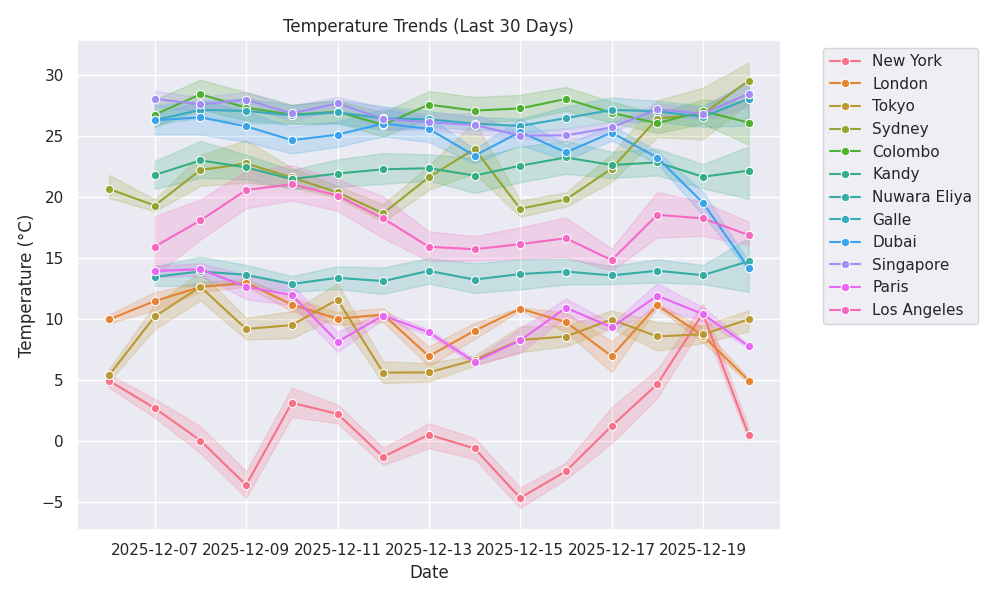
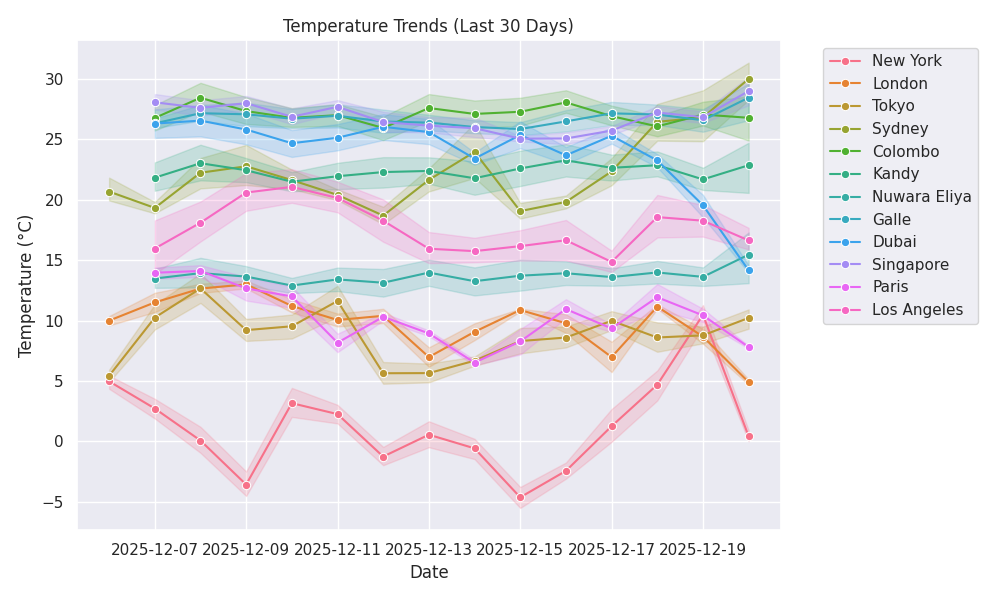
🌦 Weather update: 2025-12-20 05:13

diff --git a/public/index.html b/public/index.html
@@ -11,7 +11,7 @@
     <div class="max-w-6xl mx-auto">
         <header class="mb-8 text-center">
             <h1 class="text-4xl font-bold mb-2">🌍 Global Weather Dashboard</h1>
-            <p class="text-slate-400">Last Updated: 2025-12-20 04:19:17</p>
+            <p class="text-slate-400">Last Updated: 2025-12-20 05:13:14</p>
         </header>
         
         <!-- AI Summary -->
@@ -26,15 +26,15 @@
             <div class="bg-slate-800 p-6 rounded-xl shadow-lg border-t-4 border-blue-500 hover:scale-105 transition-transform">
                 <div class="flex justify-between items-start">
                     <h3 class="text-xl font-bold">Paris</h3>
-                    <span class="text-3xl">☁</span>
+                    <span class="text-3xl">🌦</span>
                 </div>
                 <div class="mt-4">
-                    <p class="text-4xl font-bold">7.94°C</p>
-                    <p class="text-slate-400 capitalize">overcast clouds</p>
+                    <p class="text-4xl font-bold">7.84°C</p>
+                    <p class="text-slate-400 capitalize">light intensity drizzle</p>
                 </div>
                 <div class="mt-4 text-sm text-slate-500">
                     <p>💧 Humidity: 96%</p>
-                    <p>💨 Wind: 2.06 m/s</p>
+                    <p>💨 Wind: 3.09 m/s</p>
                 </div>
             </div>
             
@@ -44,12 +44,12 @@
                     <span class="text-3xl">☀</span>
                 </div>
                 <div class="mt-4">
-                    <p class="text-4xl font-bold">4.84°C</p>
+                    <p class="text-4xl font-bold">4.6°C</p>
                     <p class="text-slate-400 capitalize">clear sky</p>
                 </div>
                 <div class="mt-4 text-sm text-slate-500">
                     <p>💧 Humidity: 95%</p>
-                    <p>💨 Wind: 1.92 m/s</p>
+                    <p>💨 Wind: 0.51 m/s</p>
                 </div>
             </div>
             
@@ -59,12 +59,12 @@
                     <span class="text-3xl">☀</span>
                 </div>
                 <div class="mt-4">
-                    <p class="text-4xl font-bold">31.22°C</p>
+                    <p class="text-4xl font-bold">31.76°C</p>
                     <p class="text-slate-400 capitalize">clear sky</p>
                 </div>
                 <div class="mt-4 text-sm text-slate-500">
-                    <p>💧 Humidity: 46%</p>
-                    <p>💨 Wind: 8.75 m/s</p>
+                    <p>💧 Humidity: 49%</p>
+                    <p>💨 Wind: 8.23 m/s</p>
                 </div>
             </div>
             
@@ -74,12 +74,12 @@
                     <span class="text-3xl">☁</span>
                 </div>
                 <div class="mt-4">
-                    <p class="text-4xl font-bold">29.68°C</p>
+                    <p class="text-4xl font-bold">31.04°C</p>
                     <p class="text-slate-400 capitalize">broken clouds</p>
                 </div>
                 <div class="mt-4 text-sm text-slate-500">
-                    <p>💧 Humidity: 72%</p>
-                    <p>💨 Wind: 5.14 m/s</p>
+                    <p>💧 Humidity: 66%</p>
+                    <p>💨 Wind: 4.63 m/s</p>
                 </div>
             </div>
             
@@ -94,7 +94,7 @@
                 </div>
                 <div class="mt-4 text-sm text-slate-500">
                     <p>💧 Humidity: 72%</p>
-                    <p>💨 Wind: 5.66 m/s</p>
+                    <p>💨 Wind: 6.17 m/s</p>
                 </div>
             </div>
             
@@ -104,12 +104,12 @@
                     <span class="text-3xl">☁</span>
                 </div>
                 <div class="mt-4">
-                    <p class="text-4xl font-bold">16.68°C</p>
-                    <p class="text-slate-400 capitalize">scattered clouds</p>
+                    <p class="text-4xl font-bold">18.22°C</p>
+                    <p class="text-slate-400 capitalize">few clouds</p>
                 </div>
                 <div class="mt-4 text-sm text-slate-500">
-                    <p>💧 Humidity: 72%</p>
-                    <p>💨 Wind: 1.06 m/s</p>
+                    <p>💧 Humidity: 67%</p>
+                    <p>💨 Wind: 1.63 m/s</p>
                 </div>
             </div>
             
@@ -119,12 +119,12 @@
                     <span class="text-3xl">☁</span>
                 </div>
                 <div class="mt-4">
-                    <p class="text-4xl font-bold">29.4°C</p>
+                    <p class="text-4xl font-bold">29.96°C</p>
                     <p class="text-slate-400 capitalize">scattered clouds</p>
                 </div>
                 <div class="mt-4 text-sm text-slate-500">
-                    <p>💧 Humidity: 78%</p>
-                    <p>💨 Wind: 1.63 m/s</p>
+                    <p>💧 Humidity: 79%</p>
+                    <p>💨 Wind: 1.69 m/s</p>
                 </div>
             </div>
             
@@ -134,12 +134,12 @@
                     <span class="text-3xl">☁</span>
                 </div>
                 <div class="mt-4">
-                    <p class="text-4xl font-bold">24.17°C</p>
+                    <p class="text-4xl font-bold">25.57°C</p>
                     <p class="text-slate-400 capitalize">broken clouds</p>
                 </div>
                 <div class="mt-4 text-sm text-slate-500">
-                    <p>💧 Humidity: 74%</p>
-                    <p>💨 Wind: 1.68 m/s</p>
+                    <p>💧 Humidity: 68%</p>
+                    <p>💨 Wind: 1.85 m/s</p>
                 </div>
             </div>
             
@@ -149,12 +149,12 @@
                     <span class="text-3xl">☁</span>
                 </div>
                 <div class="mt-4">
-                    <p class="text-4xl font-bold">28.35°C</p>
+                    <p class="text-4xl font-bold">29.46°C</p>
                     <p class="text-slate-400 capitalize">scattered clouds</p>
                 </div>
                 <div class="mt-4 text-sm text-slate-500">
-                    <p>💧 Humidity: 72%</p>
-                    <p>💨 Wind: 6.42 m/s</p>
+                    <p>💧 Humidity: 68%</p>
+                    <p>💨 Wind: 5.95 m/s</p>
                 </div>
             </div>
             
@@ -164,12 +164,12 @@
                     <span class="text-3xl">☁</span>
                 </div>
                 <div class="mt-4">
-                    <p class="text-4xl font-bold">0.0°C</p>
+                    <p class="text-4xl font-bold">-0.06°C</p>
                     <p class="text-slate-400 capitalize">overcast clouds</p>
                 </div>
                 <div class="mt-4 text-sm text-slate-500">
-                    <p>💧 Humidity: 51%</p>
-                    <p>💨 Wind: 12.96 m/s</p>
+                    <p>💧 Humidity: 50%</p>
+                    <p>💨 Wind: 9.77 m/s</p>
                 </div>
             </div>
             
@@ -179,11 +179,11 @@
                     <span class="text-3xl">☁</span>
                 </div>
                 <div class="mt-4">
-                    <p class="text-4xl font-bold">10.99°C</p>
+                    <p class="text-4xl font-bold">11.09°C</p>
                     <p class="text-slate-400 capitalize">broken clouds</p>
                 </div>
                 <div class="mt-4 text-sm text-slate-500">
-                    <p>💧 Humidity: 63%</p>
+                    <p>💧 Humidity: 64%</p>
                     <p>💨 Wind: 1.54 m/s</p>
                 </div>
             </div>
@@ -191,14 +191,14 @@
             <div class="bg-slate-800 p-6 rounded-xl shadow-lg border-t-4 border-blue-500 hover:scale-105 transition-transform">
                 <div class="flex justify-between items-start">
                     <h3 class="text-xl font-bold">Los Angeles</h3>
-                    <span class="text-3xl">🌫</span>
+                    <span class="text-3xl">☁</span>
                 </div>
                 <div class="mt-4">
-                    <p class="text-4xl font-bold">16.01°C</p>
-                    <p class="text-slate-400 capitalize">fog</p>
+                    <p class="text-4xl font-bold">15.54°C</p>
+                    <p class="text-slate-400 capitalize">scattered clouds</p>
                 </div>
                 <div class="mt-4 text-sm text-slate-500">
-                    <p>💧 Humidity: 84%</p>
+                    <p>💧 Humidity: 85%</p>
                     <p>💨 Wind: 2.57 m/s</p>
                 </div>
             </div>

diff --git a/README.md b/README.md
@@ -8,8 +8,8 @@
 
 ---
 
-## ⚡ Live Status (Updated: 2025-12-20 04:19 UTC)
-![Paris](https://img.shields.io/badge/Paris-7.94°C-blue) ![London](https://img.shields.io/badge/London-4.84°C-blue) ![Sydney](https://img.shields.io/badge/Sydney-31.22°C-red) ![Singapore](https://img.shields.io/badge/Singapore-29.68°C-orange) ![Dubai](https://img.shields.io/badge/Dubai-13.96°C-blue) ![Nuwara Eliya](https://img.shields.io/badge/Nuwara%20Eliya-16.68°C-green) ![Galle](https://img.shields.io/badge/Galle-29.4°C-orange) ![Kandy](https://img.shields.io/badge/Kandy-24.17°C-green) ![Colombo](https://img.shields.io/badge/Colombo-28.35°C-orange) ![New York](https://img.shields.io/badge/New%20York-0.0°C-blue) ![Tokyo](https://img.shields.io/badge/Tokyo-10.99°C-blue) ![Los Angeles](https://img.shields.io/badge/Los%20Angeles-16.01°C-green) 
+## ⚡ Live Status (Updated: 2025-12-20 05:13 UTC)
+![Paris](https://img.shields.io/badge/Paris-7.84°C-blue) ![London](https://img.shields.io/badge/London-4.6°C-blue) ![Sydney](https://img.shields.io/badge/Sydney-31.76°C-red) ![Singapore](https://img.shields.io/badge/Singapore-31.04°C-red) ![Dubai](https://img.shields.io/badge/Dubai-13.96°C-blue) ![Nuwara Eliya](https://img.shields.io/badge/Nuwara%20Eliya-18.22°C-green) ![Galle](https://img.shields.io/badge/Galle-29.96°C-orange) ![Kandy](https://img.shields.io/badge/Kandy-25.57°C-orange) ![Colombo](https://img.shields.io/badge/Colombo-29.46°C-orange) ![New York](https://img.shields.io/badge/New%20York--0.06°C-blue) ![Tokyo](https://img.shields.io/badge/Tokyo-11.09°C-blue) ![Los Angeles](https://img.shields.io/badge/Los%20Angeles-15.54°C-green) 
 
 <div align="center">
   <h3>🏆 Weather Records (Live)</h3>
@@ -19,8 +19,8 @@
         <td align="center">❄ <b>Coldest City</b></td>
     </tr>
     <tr>
-        <td align="center"><b>Sydney</b><br>31.22°C</td>
-        <td align="center"><b>New York</b><br>0.0°C</td>
+        <td align="center"><b>Sydney</b><br>31.76°C</td>
+        <td align="center"><b>New York</b><br>-0.06°C</td>
     </tr>
   </table>
 </div>
@@ -28,18 +28,18 @@
 ## 📊 Global Overview
 | 🌍 City | 🌡 Temp | 🌤 Condition | 💧 Humidity | 🌬 Wind |
 |---|---|---|---|---|
-| **Paris** | 7.94°C | overcast clouds | 🟦🟦🟦🟦⬜ 96% | 2.06 m/s |
-| **London** | 4.84°C | clear sky | 🟦🟦🟦🟦⬜ 95% | 1.92 m/s |
-| **Sydney** | 31.22°C | clear sky | 🟦🟦⬜⬜⬜ 46% | 8.75 m/s |
-| **Singapore** | 29.68°C | broken clouds | 🟦🟦🟦⬜⬜ 72% | 5.14 m/s |
-| **Dubai** | 13.96°C | few clouds | 🟦🟦🟦⬜⬜ 72% | 5.66 m/s |
-| **Nuwara Eliya** | 16.68°C | scattered clouds | 🟦🟦🟦⬜⬜ 72% | 1.06 m/s |
-| **Galle** | 29.4°C | scattered clouds | 🟦🟦🟦⬜⬜ 78% | 1.63 m/s |
-| **Kandy** | 24.17°C | broken clouds | 🟦🟦🟦⬜⬜ 74% | 1.68 m/s |
-| **Colombo** | 28.35°C | scattered clouds | 🟦🟦🟦⬜⬜ 72% | 6.42 m/s |
-| **New York** | 0.0°C | overcast clouds | 🟦🟦⬜⬜⬜ 51% | 12.96 m/s |
-| **Tokyo** | 10.99°C | broken clouds | 🟦🟦🟦⬜⬜ 63% | 1.54 m/s |
-| **Los Angeles** | 16.01°C | fog | 🟦🟦🟦🟦⬜ 84% | 2.57 m/s |
+| **Paris** | 7.84°C | light intensity drizzle | 🟦🟦🟦🟦⬜ 96% | 3.09 m/s |
+| **London** | 4.6°C | clear sky | 🟦🟦🟦🟦⬜ 95% | 0.51 m/s |
+| **Sydney** | 31.76°C | clear sky | 🟦🟦⬜⬜⬜ 49% | 8.23 m/s |
+| **Singapore** | 31.04°C | broken clouds | 🟦🟦🟦⬜⬜ 66% | 4.63 m/s |
+| **Dubai** | 13.96°C | few clouds | 🟦🟦🟦⬜⬜ 72% | 6.17 m/s |
+| **Nuwara Eliya** | 18.22°C | few clouds | 🟦🟦🟦⬜⬜ 67% | 1.63 m/s |
+| **Galle** | 29.96°C | scattered clouds | 🟦🟦🟦⬜⬜ 79% | 1.69 m/s |
+| **Kandy** | 25.57°C | broken clouds | 🟦🟦🟦⬜⬜ 68% | 1.85 m/s |
+| **Colombo** | 29.46°C | scattered clouds | 🟦🟦🟦⬜⬜ 68% | 5.95 m/s |
+| **New York** | -0.06°C | overcast clouds | 🟦🟦⬜⬜⬜ 50% | 9.77 m/s |
+| **Tokyo** | 11.09°C | broken clouds | 🟦🟦🟦⬜⬜ 64% | 1.54 m/s |
+| **Los Angeles** | 15.54°C | scattered clouds | 🟦🟦🟦🟦⬜ 85% | 2.57 m/s |
 
 
 ## 📈 Temperature Trends
